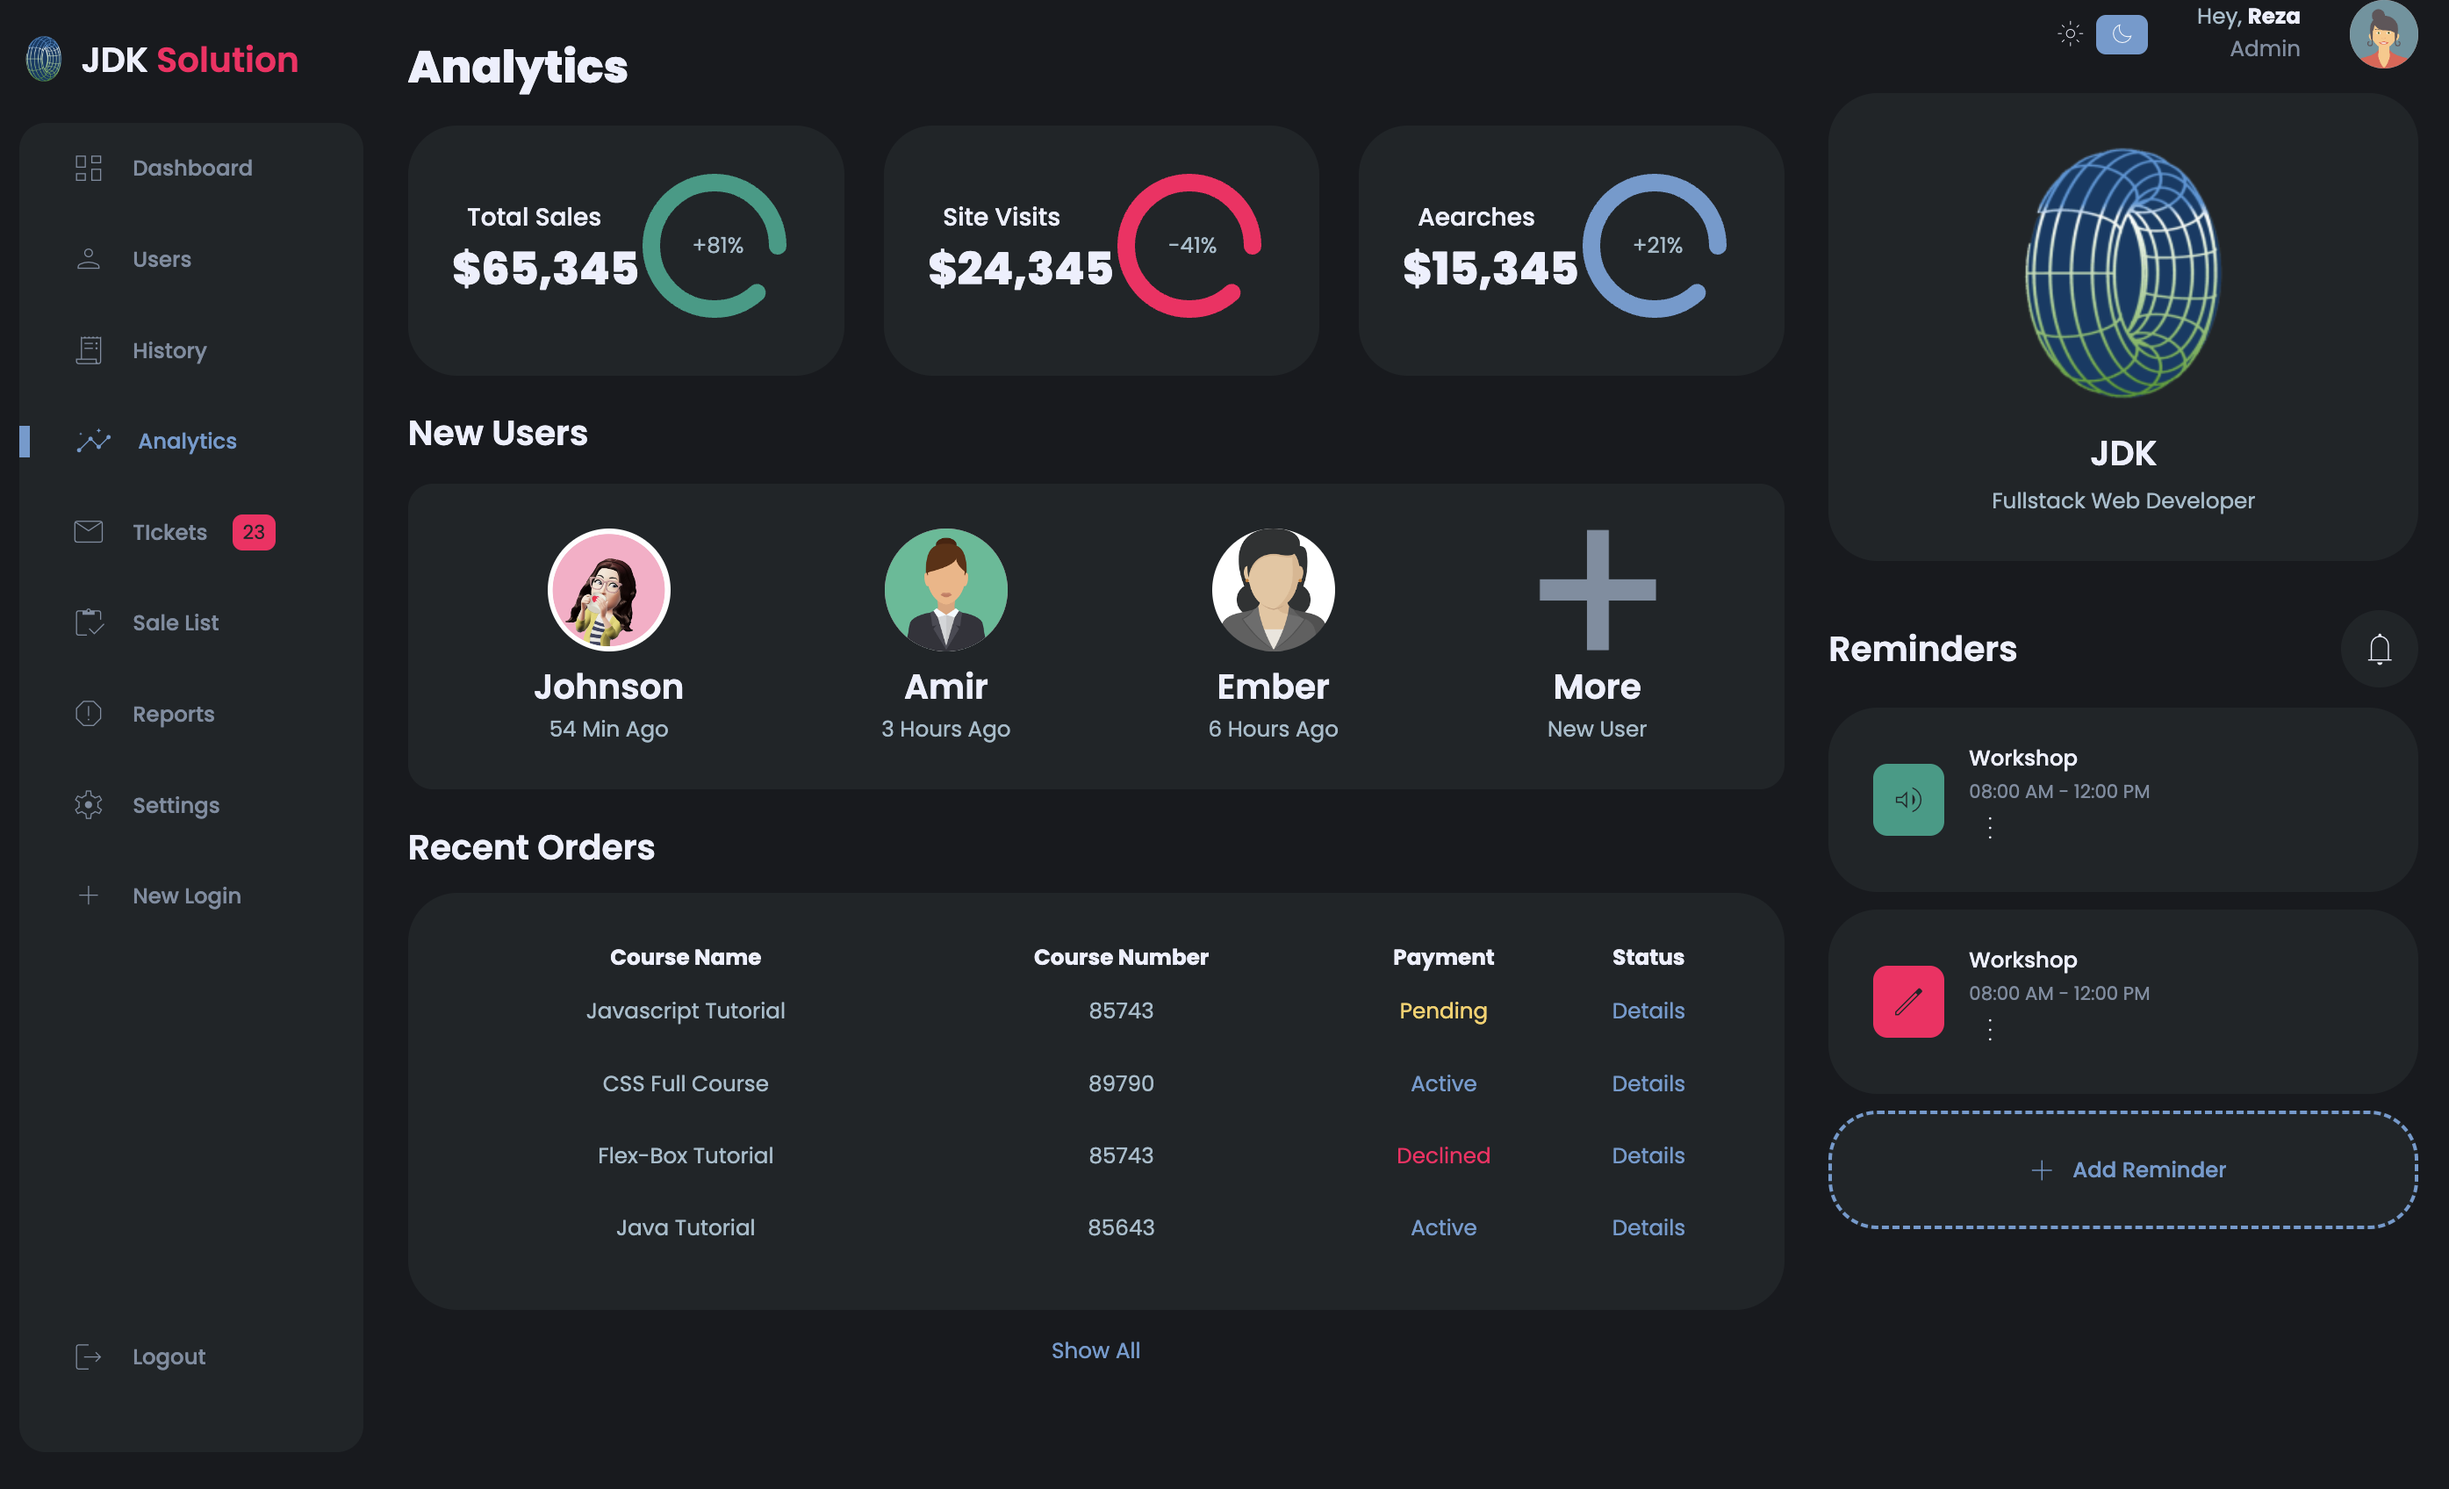
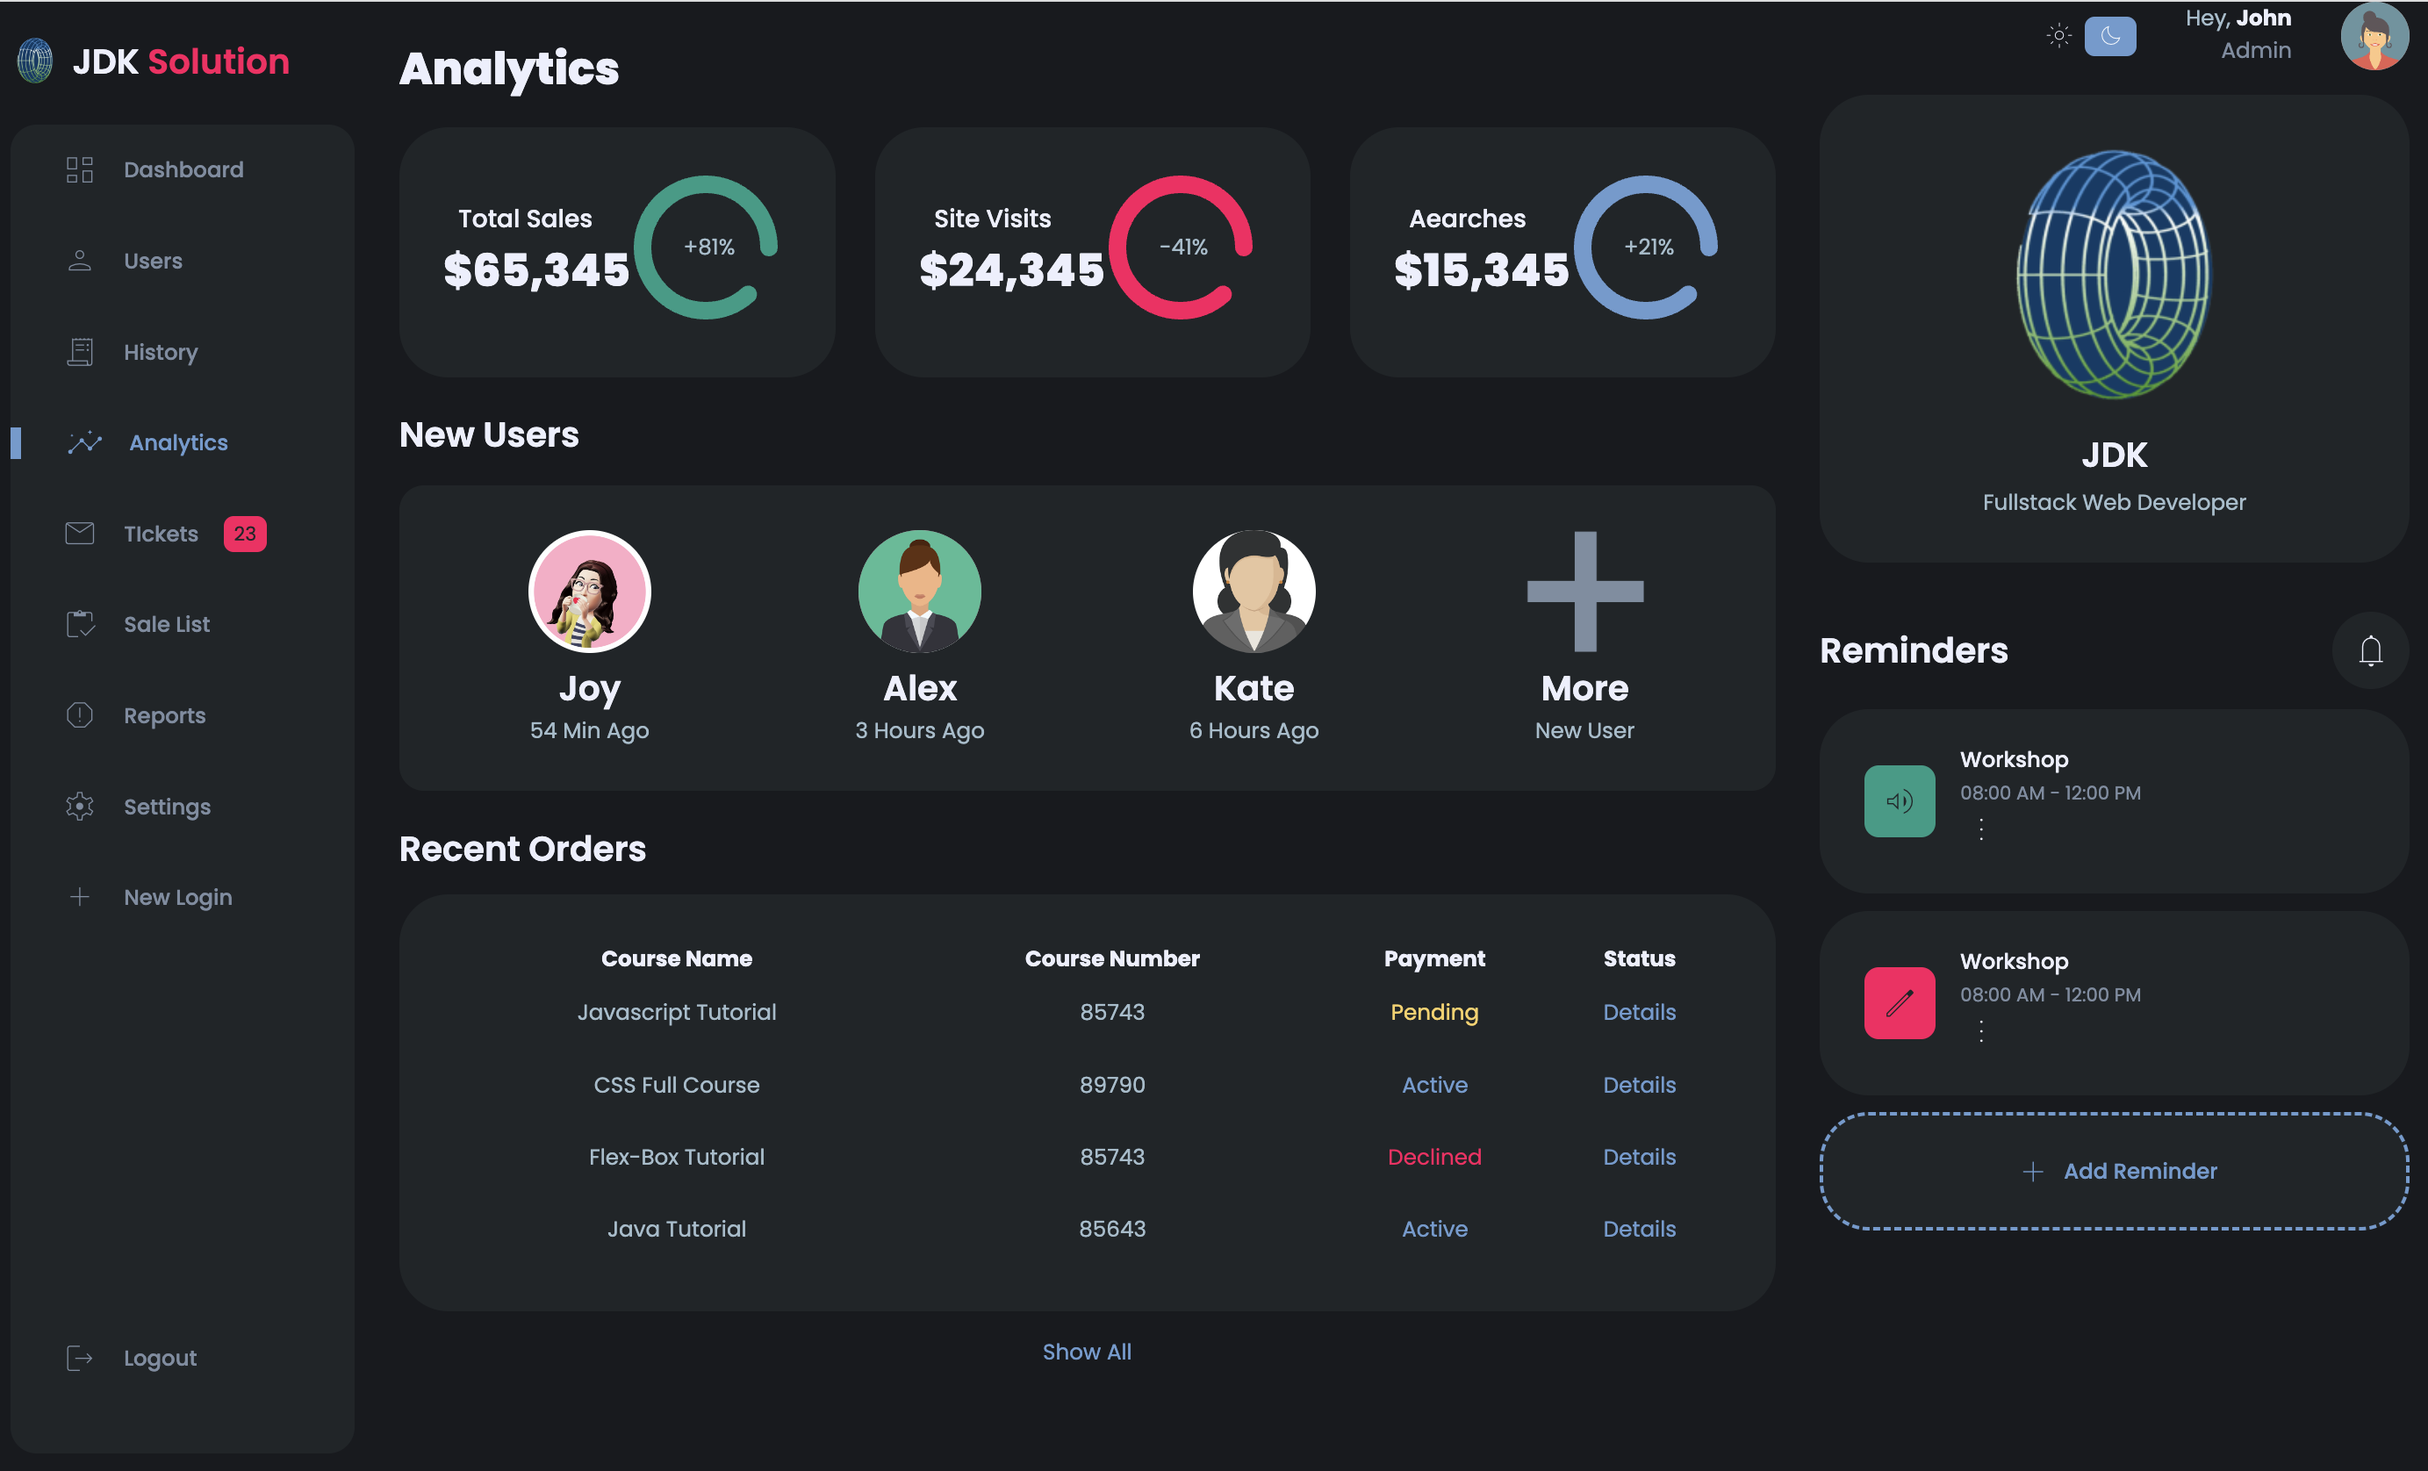
Docs: update images

diff --git a/index.html b/index.html
@@ -153,17 +153,17 @@
                 <div class="user-list">
                     <div class="user">
                         <img src="images/profile-2.png">
-                        <h2>Johnson</h2>
+                        <h2>Joy</h2>
                         <p>54 Min Ago</p>
                     </div>
                     <div class="user">
                         <img src="images/profile-3.png">
-                        <h2>Amir</h2>
+                        <h2>Alex</h2>
                         <p>3 Hours Ago</p>
                     </div>
                     <div class="user">
                         <img src="images/profile-4.png">
-                        <h2>Ember</h2>
+                        <h2>Kate</h2>
                         <p>6 Hours Ago</p>
                     </div>
                     <div class="user">
@@ -217,7 +217,7 @@
                 </div>
                 <div class="profile">
                     <div class="info">
-                        <p>Hey, <b>Reza</b></p>
+                        <p>Hey, <b>John</b></p>
                         <div class="text-muted">Admin</div>
                     </div>
                     <div class="profile-photo">
